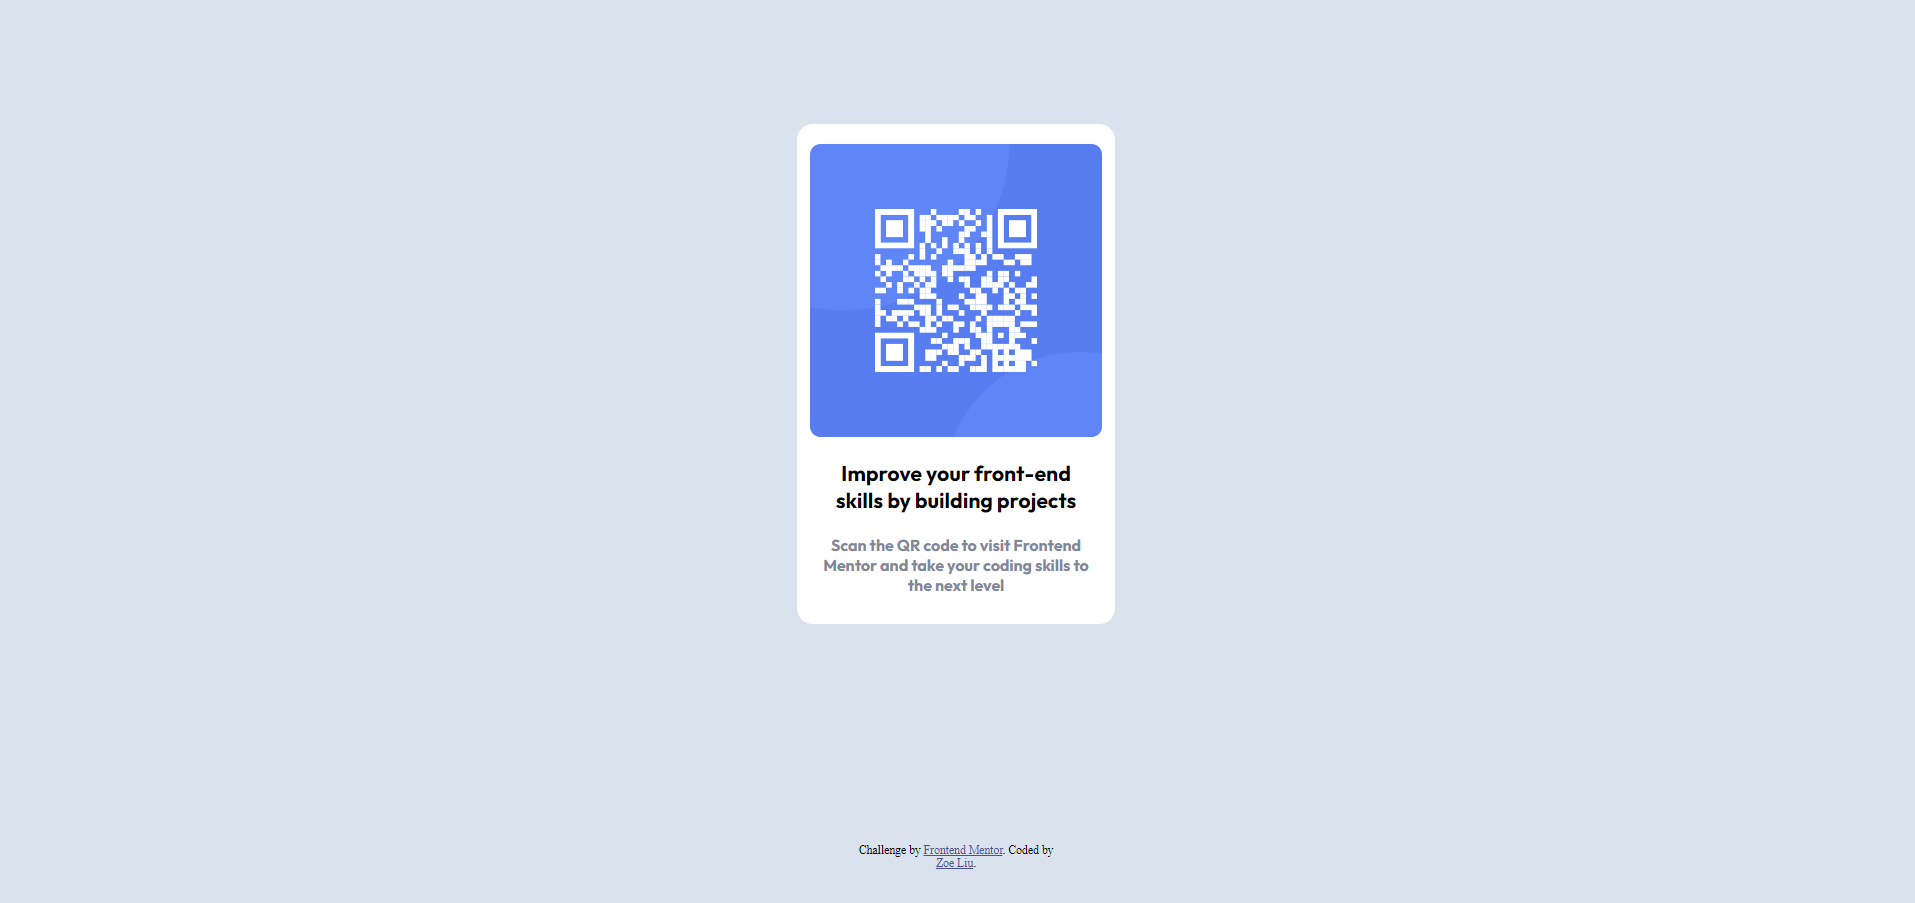
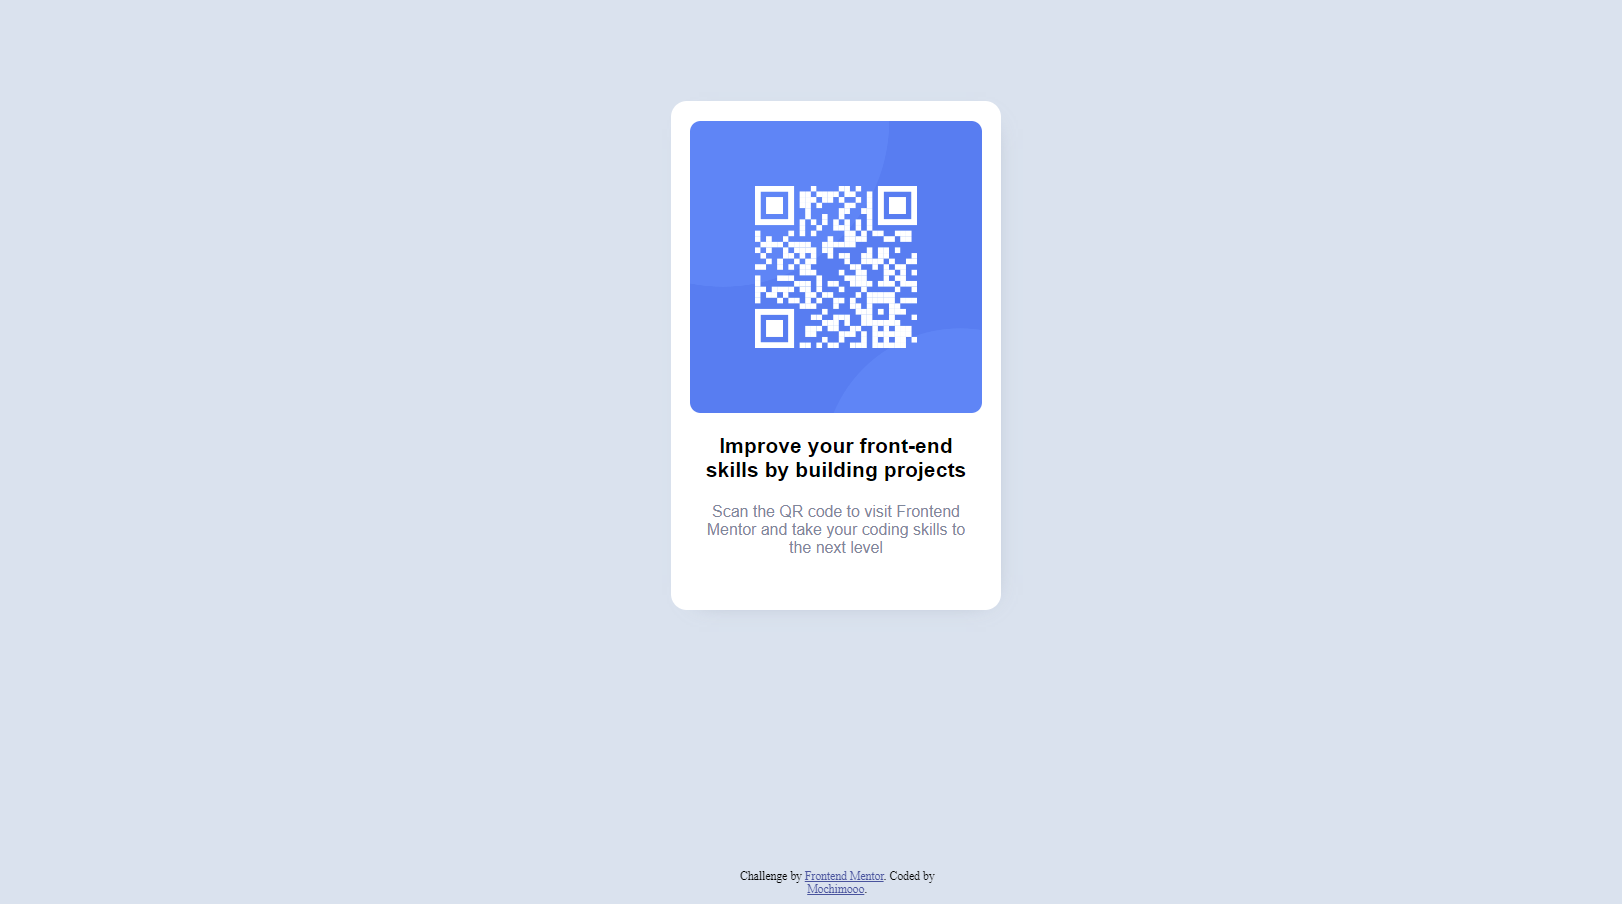
updated screenshot and readme file

Changed region(s): [[0.4007, 0.093, 0.6165, 0.7132], [0.4316, 0.9302, 0.5857, 0.9922]]

diff --git a/index.html b/index.html
@@ -78,7 +78,7 @@
     <footer >
         <div class="attribution" id="bottom">
             Challenge by <a href="https://www.frontendmentor.io?ref=challenge" target="_blank">Frontend Mentor</a>. 
-            Coded by <br><a href="#">Zoe Liu</a>.
+            Coded by <br><a href="#">Mochimooo</a>.
         </div>
     </footer>
 

diff --git a/README.md b/README.md
@@ -22,11 +22,6 @@
 
 ![Screenshot of my finished website](./Screenshot/screenshot.png)
 
-### Links
-
-- Solution URL: [Add solution URL here](https://your-solution-url.com)
-- Live Site URL: [Add live site URL here](https://your-live-site-url.com)
-
 ## My process
 
 ### Built with
@@ -34,36 +29,21 @@
 - Semantic HTML5 markup
 - CSS custom properties
 
-### What I learned
-
-Use this section to recap over some of your major learnings while working through this project. Writing these out and providing code samples of areas you want to highlight is a great way to reinforce your own knowledge.
-
-To see how you can add code snippets, see below:
-
-```html
-<body style="background-color:hsl(212, 45%, 89%)">Some HTML code I'm proud of</body>
-```
-```css
-.proud-of-this-css {
-  color: papayawhip;
-}
-```
-
-
 ### Continued development
 
 This is the first project I ever made with HTML 5 and CSS. Definitely need practice to remember how to use some of the functions here, including: how to insert font from an URL, fix footer at the bottom of the page so it's readable across different monitor screen sizes, how to make a card and how to make it look dimesional, etc.
 
 ### Useful resources
 
-- [Example resource 1](https://www.example.com) - This helped me for XYZ reason. I really liked this pattern and will use it going forward.
-- [Example resource 2](https://www.example.com) - This is an amazing article which helped me finally understand XYZ. I'd recommend it to anyone still learning this concept.
-
-**Note: Delete this note and replace the list above with resources that helped you during the challenge. These could come in handy for anyone viewing your solution or for yourself when you look back on this project in the future.**
+- [How to Center an Image Using Text Align: Center](https://www.freecodecamp.org/news/how-to-center-an-image-using-text-align/) - This helped me center the QR code within the card.
+- [CSS Box-Shadow tutorial: the basics](https://www.youtube.com/watch?v=-JNRQ5HjNeI&ab_channel=KevinPowell) - The video explains how to create shadow around a box-in this case it's the card.
+- [How to set background color in HTML?](https://www.tutorialspoint.com/How-to-set-background-color-in-HTML) - The article explains how to set background color for HTML body in HTML or with CSS.
+- [CSS Rounded Corners](https://www.w3schools.com/css/css3_borders.asp) - info for how to set the card's corners to be rounded.
+- [How to add CSS] (https://www.w3schools.com/css/css_howto.asp) - info for how to create external, internal, or inline CSS. I plan to learn about how to make external CSS sheet so I can save time in the future.
 
 ## Author
-- Frontend Mentor - [@mochimooo](https://www.frontendmentor.io/profile/yourusername)
+- Frontend Mentor - [@mochimooo](https://www.frontendmentor.io/profile/mochimooo)
 
 ## Acknowledgments
 
-I got help from my brother, Benny. He gave me feedback which I will implement in my future projects.
+I got help from my brother, Benny. He gave me feedback which I will implement in my future projects, such as creating an external CSS sheet, and how to consider the functionality of a website in order to fix certain items on the website to fit different monitor screens.
